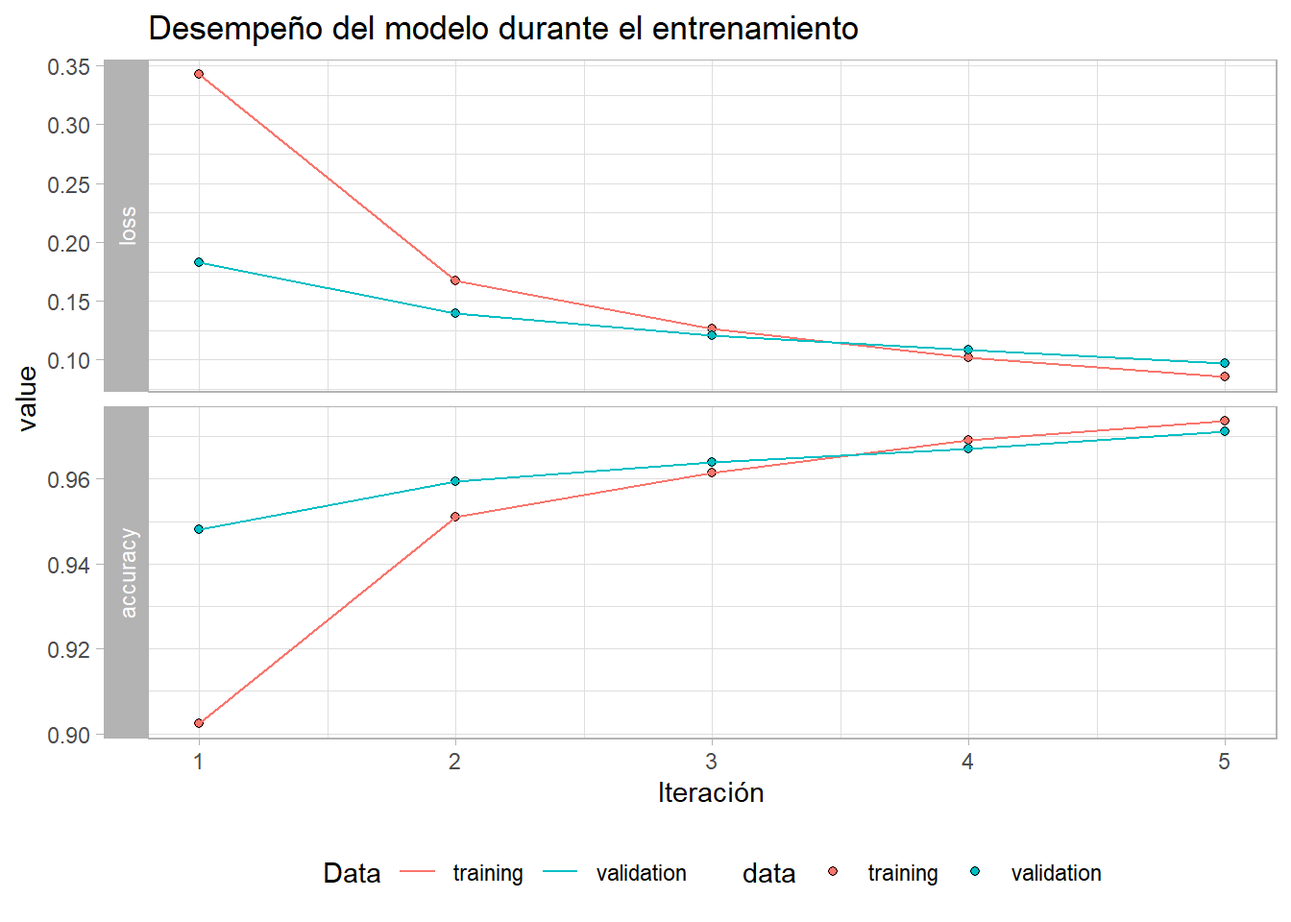
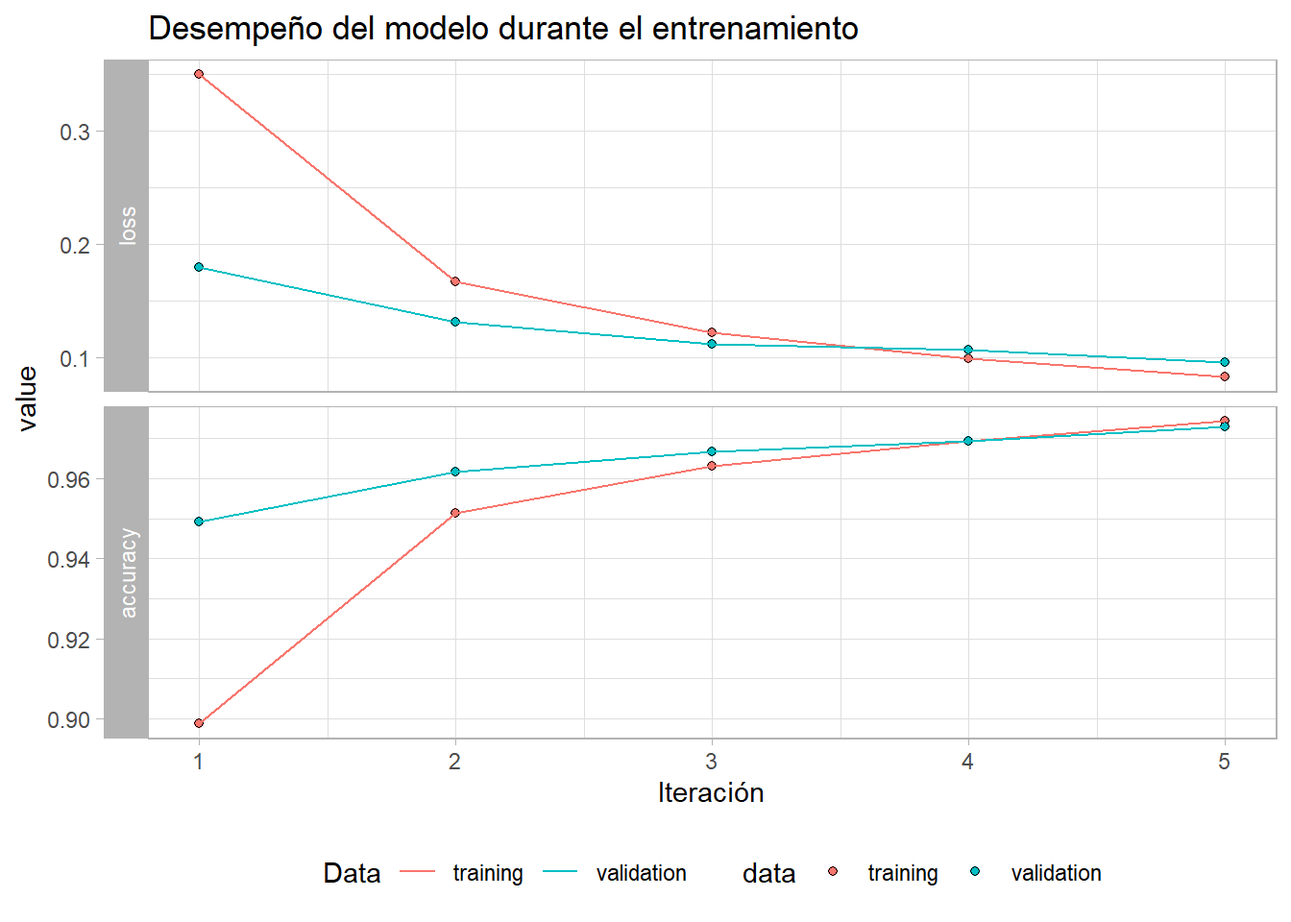
tensorflow y keras con R

diff --git a/content/post/2020-03-29-un-acercamiento-a-tensorflow-y-keras-usando-r.html b/content/post/2020-03-29-un-acercamiento-a-tensorflow-y-keras-usando-r.html
@@ -19,18 +19,18 @@ image: img/banner/deep_learning.jpg
 
 
 
-<p>Indudablemente, los problemas de <em>Deep Learning</em> están cerca de ocupar el primer puesto entre los tópicos populares del mundo de la ciencia de datos hoy día, y con razón, por el tipo de taréas que se están intentando realizar con estas tecnologías.</p>
+<p>Indudablemente, los problemas de <em>Deep Learning</em> están cerca de ocupar el primer puesto entre los tópicos populares del mundo de la ciencia de datos hoy día, y con razón, por el tipo de tareas que se están intentando realizar con estas tecnologías.</p>
 <p>Esta publicación pretende servir como guía de iniciación al deep learning con R. Al ser un post introductorio, se describiran los paquetes necesarios y la forma de instalarlos, se recomendará bibliografía para entender las redes neuronales y se realizará un ejercicio básico.</p>
 <p>En la publicación <a href="https://www.johan-rosa.com/post/la-grandeza-de-kobe-bryant-i-componentes-principales/">La grandeza de Kobe Bryant I: Componentes principales</a> se sentaron las bases para comprender el manejo de imágenes en R. El ejercicio aborda la forma de importar una imagen y la manera en la que el software representa estos objetos, entre otras cosas.</p>
 <p>Esta vez el ejercicio es un poco más amplio, porque en lugar de manejar una sola imagen, se manipulará todo un array con miles de ellas, con la finalidad de construir un modelo de clasificación con las tecnologías actuales de <em>deep learnig</em>.</p>
 <div id="tensorflow-y-keras" class="section level2">
 <h2>Tensorflow y keras</h2>
 <p>Tensorflow es un framework de <em>machine learnig</em> que facilita el acceso a una serie de algoritmos y modelos para tratar problemas modernos de clasificación y regresión como los de reconocimiento y clasificación de imágenes, procesamiento de lenguaje natural, forecast de series temporales y otros.</p>
-<p>Así como otros frameworks de <em>machine learning</em>, tensorflow tiene una integración con python para proveer una interfaz de programación de aplicaciones (API por sus siglas en ingles), aunque las aplicaciones y operaciones se ejecutan finalmente en c++.</p>
+<p>Así como otros frameworks de <em>machine learning</em>, tensorflow tiene una integración con python para proveer una interfaz de programación de aplicaciones (API por sus siglas en inglés), aunque las aplicaciones y operaciones se ejecutan finalmente en c++.</p>
 <p>Por otra parte, Keras es un interfaz de deep learning para python, capaz de correr tanto sobre tensorflow como en el framework de microsoft, Microsoft Cognitive Toolkit.</p>
 <p>Al decir que keras es un interfaz para estos frameworks de deep lerning, se apunta a que es una manera de acceder a las herramientas de tensorflow de una forma sencilla y reduciendo el riesgo de cometer errores.</p>
 <p>De forma reducida, tensorflow es un framework de machine learning y keras en un API para tensorflow, desarrollada en python.</p>
-<p>El punto es siguiente, cuando vamos al mundo de R, tenemos el paquetes <code>{keras}</code>, que es a su vez una interfaz para el keras de python. Lo que quiere decir que tenemos los beneficios de de la programación en R mientras aprovechamos la capacidad de python.</p>
+<p>El punto es el siguiente, cuando vamos al mundo de R, tenemos el paquetes <code>{keras}</code>, que es a su vez una interfaz para el keras de python. Lo que quiere decir, que tenemos los beneficios de la programación en R mientras aprovechamos la capacidad de python.</p>
 <p>La integración entre R y Python se da mediante el paquete <code>{reticulate}</code>. Pueden leer más detalles en la <a href="https://rstudio.github.io/reticulate/">página web</a> del paquete.</p>
 <div id="instalando-tensorflow-y-keras" class="section level3">
 <h3>Instalando <code>{tensorflow}</code> y <code>{keras}</code></h3>
@@ -40,7 +40,7 @@ image: img/banner/deep_learning.jpg
 <li>Instalar tensorflow con la función <code>tensorflow::install_tensorflow()</code>. Para lograr esto es necesario tener una versión de <a href="https://www.anaconda.com/distribution/">Anaconda</a>.</li>
 <li>Luego instalar el paquete <code>keras</code> con <code>install.packages("keras")</code></li>
 </ul>
-<p>Si no tienes una versión de Anaconda instalada, al momento de tratar de instalar tensorflow, el software te dará la opción de instalar <a href="https://docs.conda.io/en/latest/miniconda.html">Miniconda</a> (una versión sencilla del navegador con los componentes imprescindibles). Es decisión particular instalar miniconda o descargar manualmente Ananconda.</p>
+<p>Si no tienes una versión de Anaconda instalada, al momento de tratar de instalar tensorflow, el software te dará la opción de instalar <a href="https://docs.conda.io/en/latest/miniconda.html">Miniconda</a> (una versión sencilla del navegador con los componentes imprescindibles). Es decisión particular instalar Miniconda o descargar manualmente Ananconda.</p>
 </div>
 </div>
 <div id="la-data" class="section level2">
@@ -117,12 +117,12 @@ imagenes %&gt;%
 </div>
 <div id="neural-network-para-luego" class="section level2">
 <h2>Neural Network, para luego</h2>
-<p>En este punto del post manda una breve explicación de las redes neuronales, pero no siento que he interiorizado los conceptos lo suficiente como para compartir un resumen con el que me sienta cómo. En los próximos ejercicios dejaré mi versión, pero en esta simplemente comparto enlaces a artículos que a mi parecer hacen un buen trabajo capturando la intuición de la metodología.</p>
+<p>En este punto del post manda una breve explicación de las redes neuronales, pero no siento que he interiorizado los conceptos lo suficiente como para compartir un resumen con el que me sienta cómodo. En los próximos ejercicios dejaré mi versión, pero en esta simplemente comparto enlaces a artículos que a mi parecer hacen un buen trabajo capturando la intuición de la metodología.</p>
 <ol style="list-style-type: decimal">
 <li><a href="https://livebook.manning.com/book/deep-learning-with-r/chapter-2/">El capitulo 2 del libro Deep learning with R</a></li>
 <li><a href="http://jalammar.github.io/visual-interactive-guide-basics-neural-networks/">A Visual and Interactive Guide to the Basics of Neural Networks</a></li>
-<li><a href="https://medium.com/@eddydecena/entendiendo-las-redes-neuronales-part-1-fca3adf78c5b">Entendiendo las redes neuronales PART 1</a>
-4.<a href="https://towardsdatascience.com/introducing-deep-learning-and-neural-networks-deep-learning-for-rookies-1-bd68f9cf5883">Introducing Deep Learning and Neural Networks — Deep Learning for Rookies (1)</a></li>
+<li><a href="https://medium.com/@eddydecena/entendiendo-las-redes-neuronales-part-1-fca3adf78c5b">Entendiendo las redes neuronales PART 1</a></li>
+<li><a href="https://towardsdatascience.com/introducing-deep-learning-and-neural-networks-deep-learning-for-rookies-1-bd68f9cf5883">Introducing Deep Learning and Neural Networks — Deep Learning for Rookies (1)</a></li>
 </ol>
 <p>Hay muchos conceptos de por medio: capas, capas ocultas, nodos o neuronas, funciones de pérdida, optimizadores…</p>
 </div>
@@ -138,7 +138,7 @@ mnist$test$x &lt;- mnist$test$x/255</code></pre>
 </div>
 <div id="construyendo-el-modelo" class="section level3">
 <h3>Construyendo el modelo</h3>
-<p>La estructura de las redes neuronales se compone de capas, capas en las que se especifican elementos del imput, de las transformaciones que se le realizaran a los datos y otras capas cuyos parámetros se ajustan durante el entrenamiento.</p>
+<p>La estructura de las redes neuronales se compone de capas, en las cuales se especifican elementos del imput, de las transformaciones que se le realizaran a los datos y otras capas cuyos parámetros se ajustan durante el entrenamiento.</p>
 <p>En el caso del modelo que nos compete, la capa flatten recibe las dimensione que tiene cada imagen de entrenamiento, esto para cambiar la dimensión y pasarla de un array de dos dimensiones (28 * 28) a una dimensión de 784 elementos.</p>
 <p>Luego se especifican dos capas <em>dense</em>, en la primera se establece la cantidad de nodos o neuronas de la red y la función de activación. En este caso se usa una de las más comunes, la función de activación <a href="https://machinelearningmastery.com/rectified-linear-activation-function-for-deep-learning-neural-networks/">ReLU</a>.</p>
 <p>En la segunda capa dense, la capa del output, se especifican los nodos de salida, uno por cada categoría probable, y al tratarse de números del 0 al 9 se especifican 10, El segundo argumento de esta capa hace que el resultado del modelo sea un array con 10 valores de probabilidad que suma uno. En este caso el nodo de la categoría que tenga el mayor score termina siendo la predicción.</p>
@@ -151,29 +151,29 @@ mnist$test$x &lt;- mnist$test$x/255</code></pre>
 <p>Para inspeccionar el modelo se puede utilizar la función summary (Esta función tiene métodos para todos los objetos).</p>
 <pre class="r"><code>summary(model)</code></pre>
 <pre><code>## Model: &quot;sequential&quot;
-## ___________________________________________________________________________
-## Layer (type)                     Output Shape                  Param #     
-## ===========================================================================
-## flatten (Flatten)                (None, 784)                   0           
-## ___________________________________________________________________________
-## dense (Dense)                    (None, 128)                   100480      
-## ___________________________________________________________________________
-## dropout (Dropout)                (None, 128)                   0           
-## ___________________________________________________________________________
-## dense_1 (Dense)                  (None, 10)                    1290        
-## ===========================================================================
+## ________________________________________________________________________________
+## Layer (type)                        Output Shape                    Param #     
+## ================================================================================
+## flatten (Flatten)                   (None, 784)                     0           
+## ________________________________________________________________________________
+## dense (Dense)                       (None, 128)                     100480      
+## ________________________________________________________________________________
+## dropout (Dropout)                   (None, 128)                     0           
+## ________________________________________________________________________________
+## dense_1 (Dense)                     (None, 10)                      1290        
+## ================================================================================
 ## Total params: 101,770
 ## Trainable params: 101,770
 ## Non-trainable params: 0
-## ___________________________________________________________________________</code></pre>
+## ________________________________________________________________________________</code></pre>
 </div>
 <div id="compilando-el-modelo" class="section level3">
 <h3>Compilando el modelo</h3>
 <p>El siguiente paso es compilar el modelo. En este punto se especifican los siguientes elementos.</p>
 <ul>
-<li><p>Función de pérdida: establece cómo la red neuronal irá midiendo su rendimiento durante el entrenamiento. Una función de pérdida muy común que se utiliza en metodologías más tradicionales como las regresiones lineales, es la sumatoria cuadrada de residuos. La idea de los algoritmos que usan esa función de pérdida es minimizarla.</p></li>
+<li><p>Función de pérdida: establece cómo la red neuronal irá midiendo su rendimiento durante el entrenamiento. La suma cuadrada de residuos es una función de pérdida muy común, se utiliza en metodologías más tradicionales como las regresiones lineales. La idea de los algoritmos que usan esa función de pérdida es minimizarla.</p></li>
 <li><p>Optimizador: es el mecanismo mediante el cual la red se retroalimenta a sí misma durante el entrenamiento. De estos hay varios, pero el adam es de los más comunes.</p></li>
-<li><p>Métrica: especifíca a qué se le va a presentar atención durante el entrenamiento del modelo. En este caso al <em>accuracy</em>, o bien la proporción de imágenes bien clasificadas.</p></li>
+<li><p>Métrica: especifíca a que se le va a presentar atención durante el entrenamiento del modelo. En este caso al <em>accuracy</em>, o bien la proporción de imágenes bien clasificadas.</p></li>
 </ul>
 <pre class="r"><code>model %&gt;% 
   compile(
@@ -202,7 +202,7 @@ mnist$test$x &lt;- mnist$test$x/255</code></pre>
     validation_split = 0.3,
     verbose = 2
   )</code></pre>
-<p>En Un gráfico también se puede apreciar la evolución de los indicadores del modelo durante el entrenamiento. El resultado muestra el comportamiento esperado, la función de pérdida disminuyendo en cada iteración y el <em>accuracy</em> o proporción de imagenes bien clasificadas en aumento.</p>
+<p>En un gráfico también se puede apreciar la evolución de los indicadores del modelo durante el entrenamiento. El resultado muestra el comportamiento esperado, la función de pérdida disminuyendo en cada iteración y el <em>accuracy</em> o proporción de imagenes bien clasificadas en aumento.</p>
 <p>Como ven hay dos líneas, esto porque en cada iteración el set de entrenamiento se divide y una parte de los datos se usa para entrenar el modelo y otra para probarlo. Para eso se usó el parámetro <code>validation_split = 0.3</code> (30% de la data se usa para validación).</p>
 <pre class="r"><code>plot(history) +
     geom_line() +
@@ -215,7 +215,7 @@ mnist$test$x &lt;- mnist$test$x/255</code></pre>
 </div>
 <div id="probando-el-modelo-con-el-test-set" class="section level3">
 <h3>Probando el modelo con el test set</h3>
-<p>Teniendo ya el modelo entrenado, se usa la función <code>predict()</code> y una serie de imágenes no utilizadas para entrenar el modelo para probar su desempeño fuera de muestra. Este paso es crucial, porque de obtener aquí un desempeño muy por debajo del obtenido con el training set, entonces estaríamos frente a un problema de overfitting. En otras palabras, el modelo solo funciona con los datos que conoce.</p>
+<p>Teniendo ya el modelo entrenado, se usa la función <code>predict()</code> y una serie de imágenes no utilizadas para entrenar el modelo para probar su desempeño fuera de muestra. Este paso es crucial, porque de registrar aquí un desempeño muy por debajo del obtenido con el training set, entonces estaríamos frente a un problema de overfitting. En otras palabras, el modelo solo funciona con los datos que conoce.</p>
 <p>Para hacer las predicciones hay varias opciones, con diferentes outputs cada una. En este caso se usa la función <code>predict_classes()</code>, que devuelve la clase que sugiere el modelo para cada observación del test set. Por otro lado, la función <code>predict_prob()</code> devuelve un array con el score de probabilidad de las potenciales clases para cada observación.</p>
 <p>Obviamente, la clase con el escore de probabilidad mayor es la que se utiliza como output en <code>predict_classes()</code>.</p>
 <pre class="r"><code>predictions &lt;- predict_classes(model, mnist$test$x)
@@ -228,10 +228,10 @@ head(predictions, 10)</code></pre>
 <pre class="r"><code>model %&gt;% 
   evaluate(mnist$test$x, mnist$test$y, verbose = 0)</code></pre>
 <pre><code>## $loss
-## [1] 0.08220289
+## [1] 0.08477093
 ## 
 ## $accuracy
-## [1] 0.9756</code></pre>
+## [1] 0.9755</code></pre>
 </div>
 </div>
 <div id="comentarios-finales" class="section level1">

diff --git a/public/post/tensorflow-y-keras-con-r/index.html b/public/post/tensorflow-y-keras-con-r/index.html
@@ -220,18 +220,18 @@
                 
 
 
-<p>Indudablemente, los problemas de <em>Deep Learning</em> están cerca de ocupar el primer puesto entre los tópicos populares del mundo de la ciencia de datos hoy día, y con razón, por el tipo de taréas que se están intentando realizar con estas tecnologías.</p>
+<p>Indudablemente, los problemas de <em>Deep Learning</em> están cerca de ocupar el primer puesto entre los tópicos populares del mundo de la ciencia de datos hoy día, y con razón, por el tipo de tareas que se están intentando realizar con estas tecnologías.</p>
 <p>Esta publicación pretende servir como guía de iniciación al deep learning con R. Al ser un post introductorio, se describiran los paquetes necesarios y la forma de instalarlos, se recomendará bibliografía para entender las redes neuronales y se realizará un ejercicio básico.</p>
 <p>En la publicación <a href="https://www.johan-rosa.com/post/la-grandeza-de-kobe-bryant-i-componentes-principales/">La grandeza de Kobe Bryant I: Componentes principales</a> se sentaron las bases para comprender el manejo de imágenes en R. El ejercicio aborda la forma de importar una imagen y la manera en la que el software representa estos objetos, entre otras cosas.</p>
 <p>Esta vez el ejercicio es un poco más amplio, porque en lugar de manejar una sola imagen, se manipulará todo un array con miles de ellas, con la finalidad de construir un modelo de clasificación con las tecnologías actuales de <em>deep learnig</em>.</p>
 <div id="tensorflow-y-keras" class="section level2">
 <h2>Tensorflow y keras</h2>
 <p>Tensorflow es un framework de <em>machine learnig</em> que facilita el acceso a una serie de algoritmos y modelos para tratar problemas modernos de clasificación y regresión como los de reconocimiento y clasificación de imágenes, procesamiento de lenguaje natural, forecast de series temporales y otros.</p>
-<p>Así como otros frameworks de <em>machine learning</em>, tensorflow tiene una integración con python para proveer una interfaz de programación de aplicaciones (API por sus siglas en ingles), aunque las aplicaciones y operaciones se ejecutan finalmente en c++.</p>
+<p>Así como otros frameworks de <em>machine learning</em>, tensorflow tiene una integración con python para proveer una interfaz de programación de aplicaciones (API por sus siglas en inglés), aunque las aplicaciones y operaciones se ejecutan finalmente en c++.</p>
 <p>Por otra parte, Keras es un interfaz de deep learning para python, capaz de correr tanto sobre tensorflow como en el framework de microsoft, Microsoft Cognitive Toolkit.</p>
 <p>Al decir que keras es un interfaz para estos frameworks de deep lerning, se apunta a que es una manera de acceder a las herramientas de tensorflow de una forma sencilla y reduciendo el riesgo de cometer errores.</p>
 <p>De forma reducida, tensorflow es un framework de machine learning y keras en un API para tensorflow, desarrollada en python.</p>
-<p>El punto es siguiente, cuando vamos al mundo de R, tenemos el paquetes <code>{keras}</code>, que es a su vez una interfaz para el keras de python. Lo que quiere decir que tenemos los beneficios de de la programación en R mientras aprovechamos la capacidad de python.</p>
+<p>El punto es el siguiente, cuando vamos al mundo de R, tenemos el paquetes <code>{keras}</code>, que es a su vez una interfaz para el keras de python. Lo que quiere decir, que tenemos los beneficios de la programación en R mientras aprovechamos la capacidad de python.</p>
 <p>La integración entre R y Python se da mediante el paquete <code>{reticulate}</code>. Pueden leer más detalles en la <a href="https://rstudio.github.io/reticulate/">página web</a> del paquete.</p>
 <div id="instalando-tensorflow-y-keras" class="section level3">
 <h3>Instalando <code>{tensorflow}</code> y <code>{keras}</code></h3>
@@ -241,7 +241,7 @@
 <li>Instalar tensorflow con la función <code>tensorflow::install_tensorflow()</code>. Para lograr esto es necesario tener una versión de <a href="https://www.anaconda.com/distribution/">Anaconda</a>.</li>
 <li>Luego instalar el paquete <code>keras</code> con <code>install.packages("keras")</code></li>
 </ul>
-<p>Si no tienes una versión de Anaconda instalada, al momento de tratar de instalar tensorflow, el software te dará la opción de instalar <a href="https://docs.conda.io/en/latest/miniconda.html">Miniconda</a> (una versión sencilla del navegador con los componentes imprescindibles). Es decisión particular instalar miniconda o descargar manualmente Ananconda.</p>
+<p>Si no tienes una versión de Anaconda instalada, al momento de tratar de instalar tensorflow, el software te dará la opción de instalar <a href="https://docs.conda.io/en/latest/miniconda.html">Miniconda</a> (una versión sencilla del navegador con los componentes imprescindibles). Es decisión particular instalar Miniconda o descargar manualmente Ananconda.</p>
 </div>
 </div>
 <div id="la-data" class="section level2">
@@ -318,12 +318,12 @@ imagenes %&gt;%
 </div>
 <div id="neural-network-para-luego" class="section level2">
 <h2>Neural Network, para luego</h2>
-<p>En este punto del post manda una breve explicación de las redes neuronales, pero no siento que he interiorizado los conceptos lo suficiente como para compartir un resumen con el que me sienta cómo. En los próximos ejercicios dejaré mi versión, pero en esta simplemente comparto enlaces a artículos que a mi parecer hacen un buen trabajo capturando la intuición de la metodología.</p>
+<p>En este punto del post manda una breve explicación de las redes neuronales, pero no siento que he interiorizado los conceptos lo suficiente como para compartir un resumen con el que me sienta cómodo. En los próximos ejercicios dejaré mi versión, pero en esta simplemente comparto enlaces a artículos que a mi parecer hacen un buen trabajo capturando la intuición de la metodología.</p>
 <ol style="list-style-type: decimal">
 <li><a href="https://livebook.manning.com/book/deep-learning-with-r/chapter-2/">El capitulo 2 del libro Deep learning with R</a></li>
 <li><a href="http://jalammar.github.io/visual-interactive-guide-basics-neural-networks/">A Visual and Interactive Guide to the Basics of Neural Networks</a></li>
-<li><a href="https://medium.com/@eddydecena/entendiendo-las-redes-neuronales-part-1-fca3adf78c5b">Entendiendo las redes neuronales PART 1</a>
-4.<a href="https://towardsdatascience.com/introducing-deep-learning-and-neural-networks-deep-learning-for-rookies-1-bd68f9cf5883">Introducing Deep Learning and Neural Networks — Deep Learning for Rookies (1)</a></li>
+<li><a href="https://medium.com/@eddydecena/entendiendo-las-redes-neuronales-part-1-fca3adf78c5b">Entendiendo las redes neuronales PART 1</a></li>
+<li><a href="https://towardsdatascience.com/introducing-deep-learning-and-neural-networks-deep-learning-for-rookies-1-bd68f9cf5883">Introducing Deep Learning and Neural Networks — Deep Learning for Rookies (1)</a></li>
 </ol>
 <p>Hay muchos conceptos de por medio: capas, capas ocultas, nodos o neuronas, funciones de pérdida, optimizadores…</p>
 </div>
@@ -339,7 +339,7 @@ mnist$test$x &lt;- mnist$test$x/255</code></pre>
 </div>
 <div id="construyendo-el-modelo" class="section level3">
 <h3>Construyendo el modelo</h3>
-<p>La estructura de las redes neuronales se compone de capas, capas en las que se especifican elementos del imput, de las transformaciones que se le realizaran a los datos y otras capas cuyos parámetros se ajustan durante el entrenamiento.</p>
+<p>La estructura de las redes neuronales se compone de capas, en las cuales se especifican elementos del imput, de las transformaciones que se le realizaran a los datos y otras capas cuyos parámetros se ajustan durante el entrenamiento.</p>
 <p>En el caso del modelo que nos compete, la capa flatten recibe las dimensione que tiene cada imagen de entrenamiento, esto para cambiar la dimensión y pasarla de un array de dos dimensiones (28 * 28) a una dimensión de 784 elementos.</p>
 <p>Luego se especifican dos capas <em>dense</em>, en la primera se establece la cantidad de nodos o neuronas de la red y la función de activación. En este caso se usa una de las más comunes, la función de activación <a href="https://machinelearningmastery.com/rectified-linear-activation-function-for-deep-learning-neural-networks/">ReLU</a>.</p>
 <p>En la segunda capa dense, la capa del output, se especifican los nodos de salida, uno por cada categoría probable, y al tratarse de números del 0 al 9 se especifican 10, El segundo argumento de esta capa hace que el resultado del modelo sea un array con 10 valores de probabilidad que suma uno. En este caso el nodo de la categoría que tenga el mayor score termina siendo la predicción.</p>
@@ -352,29 +352,29 @@ mnist$test$x &lt;- mnist$test$x/255</code></pre>
 <p>Para inspeccionar el modelo se puede utilizar la función summary (Esta función tiene métodos para todos los objetos).</p>
 <pre class="r"><code>summary(model)</code></pre>
 <pre><code>## Model: &quot;sequential&quot;
-## ___________________________________________________________________________
-## Layer (type)                     Output Shape                  Param #     
-## ===========================================================================
-## flatten (Flatten)                (None, 784)                   0           
-## ___________________________________________________________________________
-## dense (Dense)                    (None, 128)                   100480      
-## ___________________________________________________________________________
-## dropout (Dropout)                (None, 128)                   0           
-## ___________________________________________________________________________
-## dense_1 (Dense)                  (None, 10)                    1290        
-## ===========================================================================
+## ________________________________________________________________________________
+## Layer (type)                        Output Shape                    Param #     
+## ================================================================================
+## flatten (Flatten)                   (None, 784)                     0           
+## ________________________________________________________________________________
+## dense (Dense)                       (None, 128)                     100480      
+## ________________________________________________________________________________
+## dropout (Dropout)                   (None, 128)                     0           
+## ________________________________________________________________________________
+## dense_1 (Dense)                     (None, 10)                      1290        
+## ================================================================================
 ## Total params: 101,770
 ## Trainable params: 101,770
 ## Non-trainable params: 0
-## ___________________________________________________________________________</code></pre>
+## ________________________________________________________________________________</code></pre>
 </div>
 <div id="compilando-el-modelo" class="section level3">
 <h3>Compilando el modelo</h3>
 <p>El siguiente paso es compilar el modelo. En este punto se especifican los siguientes elementos.</p>
 <ul>
-<li><p>Función de pérdida: establece cómo la red neuronal irá midiendo su rendimiento durante el entrenamiento. Una función de pérdida muy común que se utiliza en metodologías más tradicionales como las regresiones lineales, es la sumatoria cuadrada de residuos. La idea de los algoritmos que usan esa función de pérdida es minimizarla.</p></li>
+<li><p>Función de pérdida: establece cómo la red neuronal irá midiendo su rendimiento durante el entrenamiento. La suma cuadrada de residuos es una función de pérdida muy común, se utiliza en metodologías más tradicionales como las regresiones lineales. La idea de los algoritmos que usan esa función de pérdida es minimizarla.</p></li>
 <li><p>Optimizador: es el mecanismo mediante el cual la red se retroalimenta a sí misma durante el entrenamiento. De estos hay varios, pero el adam es de los más comunes.</p></li>
-<li><p>Métrica: especifíca a qué se le va a presentar atención durante el entrenamiento del modelo. En este caso al <em>accuracy</em>, o bien la proporción de imágenes bien clasificadas.</p></li>
+<li><p>Métrica: especifíca a que se le va a presentar atención durante el entrenamiento del modelo. En este caso al <em>accuracy</em>, o bien la proporción de imágenes bien clasificadas.</p></li>
 </ul>
 <pre class="r"><code>model %&gt;% 
   compile(
@@ -403,7 +403,7 @@ mnist$test$x &lt;- mnist$test$x/255</code></pre>
     validation_split = 0.3,
     verbose = 2
   )</code></pre>
-<p>En Un gráfico también se puede apreciar la evolución de los indicadores del modelo durante el entrenamiento. El resultado muestra el comportamiento esperado, la función de pérdida disminuyendo en cada iteración y el <em>accuracy</em> o proporción de imagenes bien clasificadas en aumento.</p>
+<p>En un gráfico también se puede apreciar la evolución de los indicadores del modelo durante el entrenamiento. El resultado muestra el comportamiento esperado, la función de pérdida disminuyendo en cada iteración y el <em>accuracy</em> o proporción de imagenes bien clasificadas en aumento.</p>
 <p>Como ven hay dos líneas, esto porque en cada iteración el set de entrenamiento se divide y una parte de los datos se usa para entrenar el modelo y otra para probarlo. Para eso se usó el parámetro <code>validation_split = 0.3</code> (30% de la data se usa para validación).</p>
 <pre class="r"><code>plot(history) +
     geom_line() +
@@ -416,7 +416,7 @@ mnist$test$x &lt;- mnist$test$x/255</code></pre>
 </div>
 <div id="probando-el-modelo-con-el-test-set" class="section level3">
 <h3>Probando el modelo con el test set</h3>
-<p>Teniendo ya el modelo entrenado, se usa la función <code>predict()</code> y una serie de imágenes no utilizadas para entrenar el modelo para probar su desempeño fuera de muestra. Este paso es crucial, porque de obtener aquí un desempeño muy por debajo del obtenido con el training set, entonces estaríamos frente a un problema de overfitting. En otras palabras, el modelo solo funciona con los datos que conoce.</p>
+<p>Teniendo ya el modelo entrenado, se usa la función <code>predict()</code> y una serie de imágenes no utilizadas para entrenar el modelo para probar su desempeño fuera de muestra. Este paso es crucial, porque de registrar aquí un desempeño muy por debajo del obtenido con el training set, entonces estaríamos frente a un problema de overfitting. En otras palabras, el modelo solo funciona con los datos que conoce.</p>
 <p>Para hacer las predicciones hay varias opciones, con diferentes outputs cada una. En este caso se usa la función <code>predict_classes()</code>, que devuelve la clase que sugiere el modelo para cada observación del test set. Por otro lado, la función <code>predict_prob()</code> devuelve un array con el score de probabilidad de las potenciales clases para cada observación.</p>
 <p>Obviamente, la clase con el escore de probabilidad mayor es la que se utiliza como output en <code>predict_classes()</code>.</p>
 <pre class="r"><code>predictions &lt;- predict_classes(model, mnist$test$x)
@@ -429,10 +429,10 @@ head(predictions, 10)</code></pre>
 <pre class="r"><code>model %&gt;% 
   evaluate(mnist$test$x, mnist$test$y, verbose = 0)</code></pre>
 <pre><code>## $loss
-## [1] 0.08220289
+## [1] 0.08477093
 ## 
 ## $accuracy
-## [1] 0.9756</code></pre>
+## [1] 0.9755</code></pre>
 </div>
 </div>
 <div id="comentarios-finales" class="section level1">

diff --git a/public/categories/r/index.html b/public/categories/r/index.html
@@ -188,7 +188,7 @@
 	
         <div class="post-content-preview">
 	
-            Indudablemente, los problemas de Deep Learning están cerca de ocupar el primer puesto entre los tópicos populares del mundo de la ciencia de datos hoy día, y con razón, por el tipo de taréas que se están intentando realizar con estas tecnologías.
+            Indudablemente, los problemas de Deep Learning están cerca de ocupar el primer puesto entre los tópicos populares del mundo de la ciencia de datos hoy día, y con razón, por el tipo de tareas que se están intentando realizar con estas tecnologías.
 Esta publicación pretende servir como guía de iniciación al deep learning con R. Al ser un post introductorio, se describiran los paquetes necesarios y la forma de instalarlos, se recomendará bibliografía para entender las redes neuronales y se realizará un ejercicio básico.
        
         </div>

diff --git a/public/categories/tutorial/index.html b/public/categories/tutorial/index.html
@@ -188,7 +188,7 @@
 	
         <div class="post-content-preview">
 	
-            Indudablemente, los problemas de Deep Learning están cerca de ocupar el primer puesto entre los tópicos populares del mundo de la ciencia de datos hoy día, y con razón, por el tipo de taréas que se están intentando realizar con estas tecnologías.
+            Indudablemente, los problemas de Deep Learning están cerca de ocupar el primer puesto entre los tópicos populares del mundo de la ciencia de datos hoy día, y con razón, por el tipo de tareas que se están intentando realizar con estas tecnologías.
 Esta publicación pretende servir como guía de iniciación al deep learning con R. Al ser un post introductorio, se describiran los paquetes necesarios y la forma de instalarlos, se recomendará bibliografía para entender las redes neuronales y se realizará un ejercicio básico.
        
         </div>

diff --git a/public/index.html b/public/index.html
@@ -189,7 +189,7 @@
 	
         <div class="post-content-preview">
 	
-            Indudablemente, los problemas de Deep Learning están cerca de ocupar el primer puesto entre los tópicos populares del mundo de la ciencia de datos hoy día, y con razón, por el tipo de taréas que se están intentando realizar con estas tecnologías.
+            Indudablemente, los problemas de Deep Learning están cerca de ocupar el primer puesto entre los tópicos populares del mundo de la ciencia de datos hoy día, y con razón, por el tipo de tareas que se están intentando realizar con estas tecnologías.
 Esta publicación pretende servir como guía de iniciación al deep learning con R. Al ser un post introductorio, se describiran los paquetes necesarios y la forma de instalarlos, se recomendará bibliografía para entender las redes neuronales y se realizará un ejercicio básico.
        
         </div>

diff --git a/public/tags/ann/index.html b/public/tags/ann/index.html
@@ -188,7 +188,7 @@
 	
         <div class="post-content-preview">
 	
-            Indudablemente, los problemas de Deep Learning están cerca de ocupar el primer puesto entre los tópicos populares del mundo de la ciencia de datos hoy día, y con razón, por el tipo de taréas que se están intentando realizar con estas tecnologías.
+            Indudablemente, los problemas de Deep Learning están cerca de ocupar el primer puesto entre los tópicos populares del mundo de la ciencia de datos hoy día, y con razón, por el tipo de tareas que se están intentando realizar con estas tecnologías.
 Esta publicación pretende servir como guía de iniciación al deep learning con R. Al ser un post introductorio, se describiran los paquetes necesarios y la forma de instalarlos, se recomendará bibliografía para entender las redes neuronales y se realizará un ejercicio básico.
        
         </div>

diff --git a/public/tags/deeplearning/index.html b/public/tags/deeplearning/index.html
@@ -188,7 +188,7 @@
 	
         <div class="post-content-preview">
 	
-            Indudablemente, los problemas de Deep Learning están cerca de ocupar el primer puesto entre los tópicos populares del mundo de la ciencia de datos hoy día, y con razón, por el tipo de taréas que se están intentando realizar con estas tecnologías.
+            Indudablemente, los problemas de Deep Learning están cerca de ocupar el primer puesto entre los tópicos populares del mundo de la ciencia de datos hoy día, y con razón, por el tipo de tareas que se están intentando realizar con estas tecnologías.
 Esta publicación pretende servir como guía de iniciación al deep learning con R. Al ser un post introductorio, se describiran los paquetes necesarios y la forma de instalarlos, se recomendará bibliografía para entender las redes neuronales y se realizará un ejercicio básico.
        
         </div>

diff --git a/public/tags/imagen/index.html b/public/tags/imagen/index.html
@@ -188,7 +188,7 @@
 	
         <div class="post-content-preview">
 	
-            Indudablemente, los problemas de Deep Learning están cerca de ocupar el primer puesto entre los tópicos populares del mundo de la ciencia de datos hoy día, y con razón, por el tipo de taréas que se están intentando realizar con estas tecnologías.
+            Indudablemente, los problemas de Deep Learning están cerca de ocupar el primer puesto entre los tópicos populares del mundo de la ciencia de datos hoy día, y con razón, por el tipo de tareas que se están intentando realizar con estas tecnologías.
 Esta publicación pretende servir como guía de iniciación al deep learning con R. Al ser un post introductorio, se describiran los paquetes necesarios y la forma de instalarlos, se recomendará bibliografía para entender las redes neuronales y se realizará un ejercicio básico.
        
         </div>

diff --git a/public/tags/keras/index.html b/public/tags/keras/index.html
@@ -188,7 +188,7 @@
 	
         <div class="post-content-preview">
 	
-            Indudablemente, los problemas de Deep Learning están cerca de ocupar el primer puesto entre los tópicos populares del mundo de la ciencia de datos hoy día, y con razón, por el tipo de taréas que se están intentando realizar con estas tecnologías.
+            Indudablemente, los problemas de Deep Learning están cerca de ocupar el primer puesto entre los tópicos populares del mundo de la ciencia de datos hoy día, y con razón, por el tipo de tareas que se están intentando realizar con estas tecnologías.
 Esta publicación pretende servir como guía de iniciación al deep learning con R. Al ser un post introductorio, se describiran los paquetes necesarios y la forma de instalarlos, se recomendará bibliografía para entender las redes neuronales y se realizará un ejercicio básico.
        
         </div>

diff --git a/public/tags/tensorflow/index.html b/public/tags/tensorflow/index.html
@@ -188,7 +188,7 @@
 	
         <div class="post-content-preview">
 	
-            Indudablemente, los problemas de Deep Learning están cerca de ocupar el primer puesto entre los tópicos populares del mundo de la ciencia de datos hoy día, y con razón, por el tipo de taréas que se están intentando realizar con estas tecnologías.
+            Indudablemente, los problemas de Deep Learning están cerca de ocupar el primer puesto entre los tópicos populares del mundo de la ciencia de datos hoy día, y con razón, por el tipo de tareas que se están intentando realizar con estas tecnologías.
 Esta publicación pretende servir como guía de iniciación al deep learning con R. Al ser un post introductorio, se describiran los paquetes necesarios y la forma de instalarlos, se recomendará bibliografía para entender las redes neuronales y se realizará un ejercicio básico.
        
         </div>
